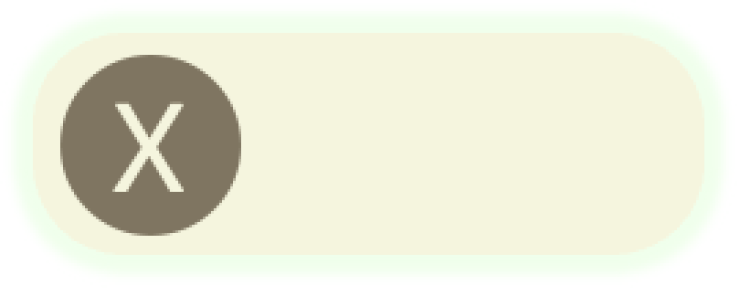
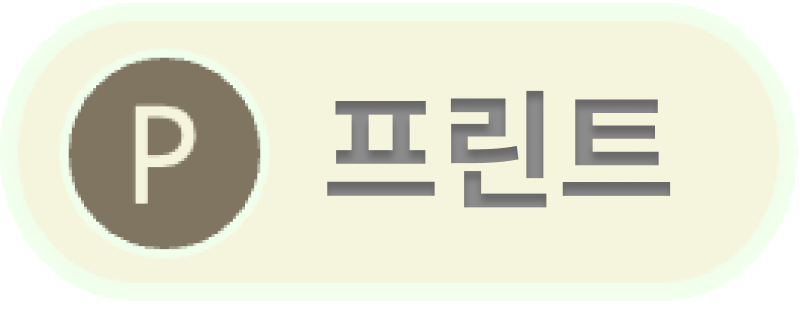
backup

diff --git a/src/App.css b/src/App.css
@@ -1,3 +1,11 @@
+.app1-background {
+  width: 100%;
+  height: 100vh;
+  background: linear-gradient(to bottom, #8688ff, #26b7ff); /* 배경색 위에서 아래로 그라데이션 */
+  position: relative;
+  overflow: hidden;
+  z-index: 0;
+}
 /* 로고 스타일 */
 .logoimg {
   width: 30%;
@@ -117,14 +125,6 @@
   font-weight: bold;
   color: black;
 }
-.app1-background {
-  width: 100%;
-  height: 100vh;
-  background: linear-gradient(to bottom, #8688ff, #76ceff); /* 배경색 위에서 아래로 그라데이션 */
-  position: relative;
-  overflow: hidden;
-  z-index: 0;
-}
 
 .cloud-bg {
   position: absolute;
@@ -197,26 +197,6 @@
   height: auto; /* 비율 유지 */
   position: relative;
   z-index: 2; /* 이미지들이 다른 요소 위에 오도록 설정 */
-}
-
-.ch1img {
-  /* position: absolute; */
-  bottom: 40px; /* 아래에서 40px 띄움 */
-  left: 40px; /* 왼쪽에서 40px 띄움 */
-  width: 30%; /* 너비를 30%로 설정 */
-  max-width: 250px; /* 최대 너비 설정 */
-  height: auto; /* 비율 유지 */
-  z-index: 10; /* 다른 요소들보다 앞에 배치 */
-}
-
-.ch2img {
-  /* position: absolute; */
-  bottom: 40px; /* 아래에서 40px 띄움 */
-  right: 40px; /* 오른쪽에서 40px 띄움 */
-  width: 30%; /* 너비를 30%로 설정 */
-  max-width: 500px; /* 최대 너비 설정 */
-  height: auto; /* 비율 유지 */
-  z-index: 10; /* 다른 요소들보다 앞에 배치 */
 }
 
 .bubbleimg {
@@ -298,10 +278,8 @@ div p {
 
 .char-img {
   position: relative;
-  width: 100%;
-  max-width: 900px;
-  height: auto;
-  /* transform: translateY(200px); */
+  width: 150%;
+  transform: translateY(100px);
   z-index: 3;
   filter: drop-shadow(4px 4px 5px rgba(0, 0, 0, 0.3));
   cursor: default;

diff --git a/src/App.jsx b/src/App.jsx
@@ -84,8 +84,8 @@ function App() {
           </Col>
         </Row>
 
-        <Row className="character-row justify-content-center align-items-center">
-          <Col xs={4} sm={3} md={2} className="d-flex justify-content-center">
+        <Row className="character-row justify-content-center align-items-center g-5">
+          <Col xs={4} sm={3} md={2} className="d-flex justify-content-end">
             <img src={ch1} alt="캐릭터1" className="char-img" />
           </Col>
 
@@ -109,7 +109,8 @@ function App() {
               />
             </div>
           </Col>
-          <Col xs={4} sm={3} md={2} className="d-flex justify-content-center">
+
+          <Col xs={4} sm={3} md={2} className="d-flex justify-content-start">
             <img src={ch2} alt="캐릭터2" className="char-img" />
           </Col>
         </Row>

diff --git a/src/pages/Picture.jsx b/src/pages/Picture.jsx
@@ -14,6 +14,7 @@ import cloud from "/cloud.png";
 import bubble from "/말풍선.png";
 import btimg from "/buttonimg.png";
 
+import "./Picture.css";
 import "../App.css";
 import 'bootstrap/dist/css/bootstrap.min.css';
 
@@ -333,6 +334,7 @@ function App() {
   };
 
   return (
+    <div className="app5-background">
     <Container className="mt-4">
       {/* 플래시 효과 오버레이 */}
       <FlashOverlay active={flashActive} />
@@ -475,6 +477,7 @@ function App() {
         </Col>
       </Row>
     </Container>
+    </div>
   );
 }
 

diff --git a/src/pages/Picture.css b/src/pages/Picture.css
@@ -1,0 +1,8 @@
+.app5-background {
+    width: 100%;
+    height: 100vh;
+    background: linear-gradient(to bottom, #8d8ffd, #c99fb7); /* 배경색 위에서 아래로 그라데이션 */
+    position: relative;
+    overflow: hidden;
+    z-index: 0;
+  }
